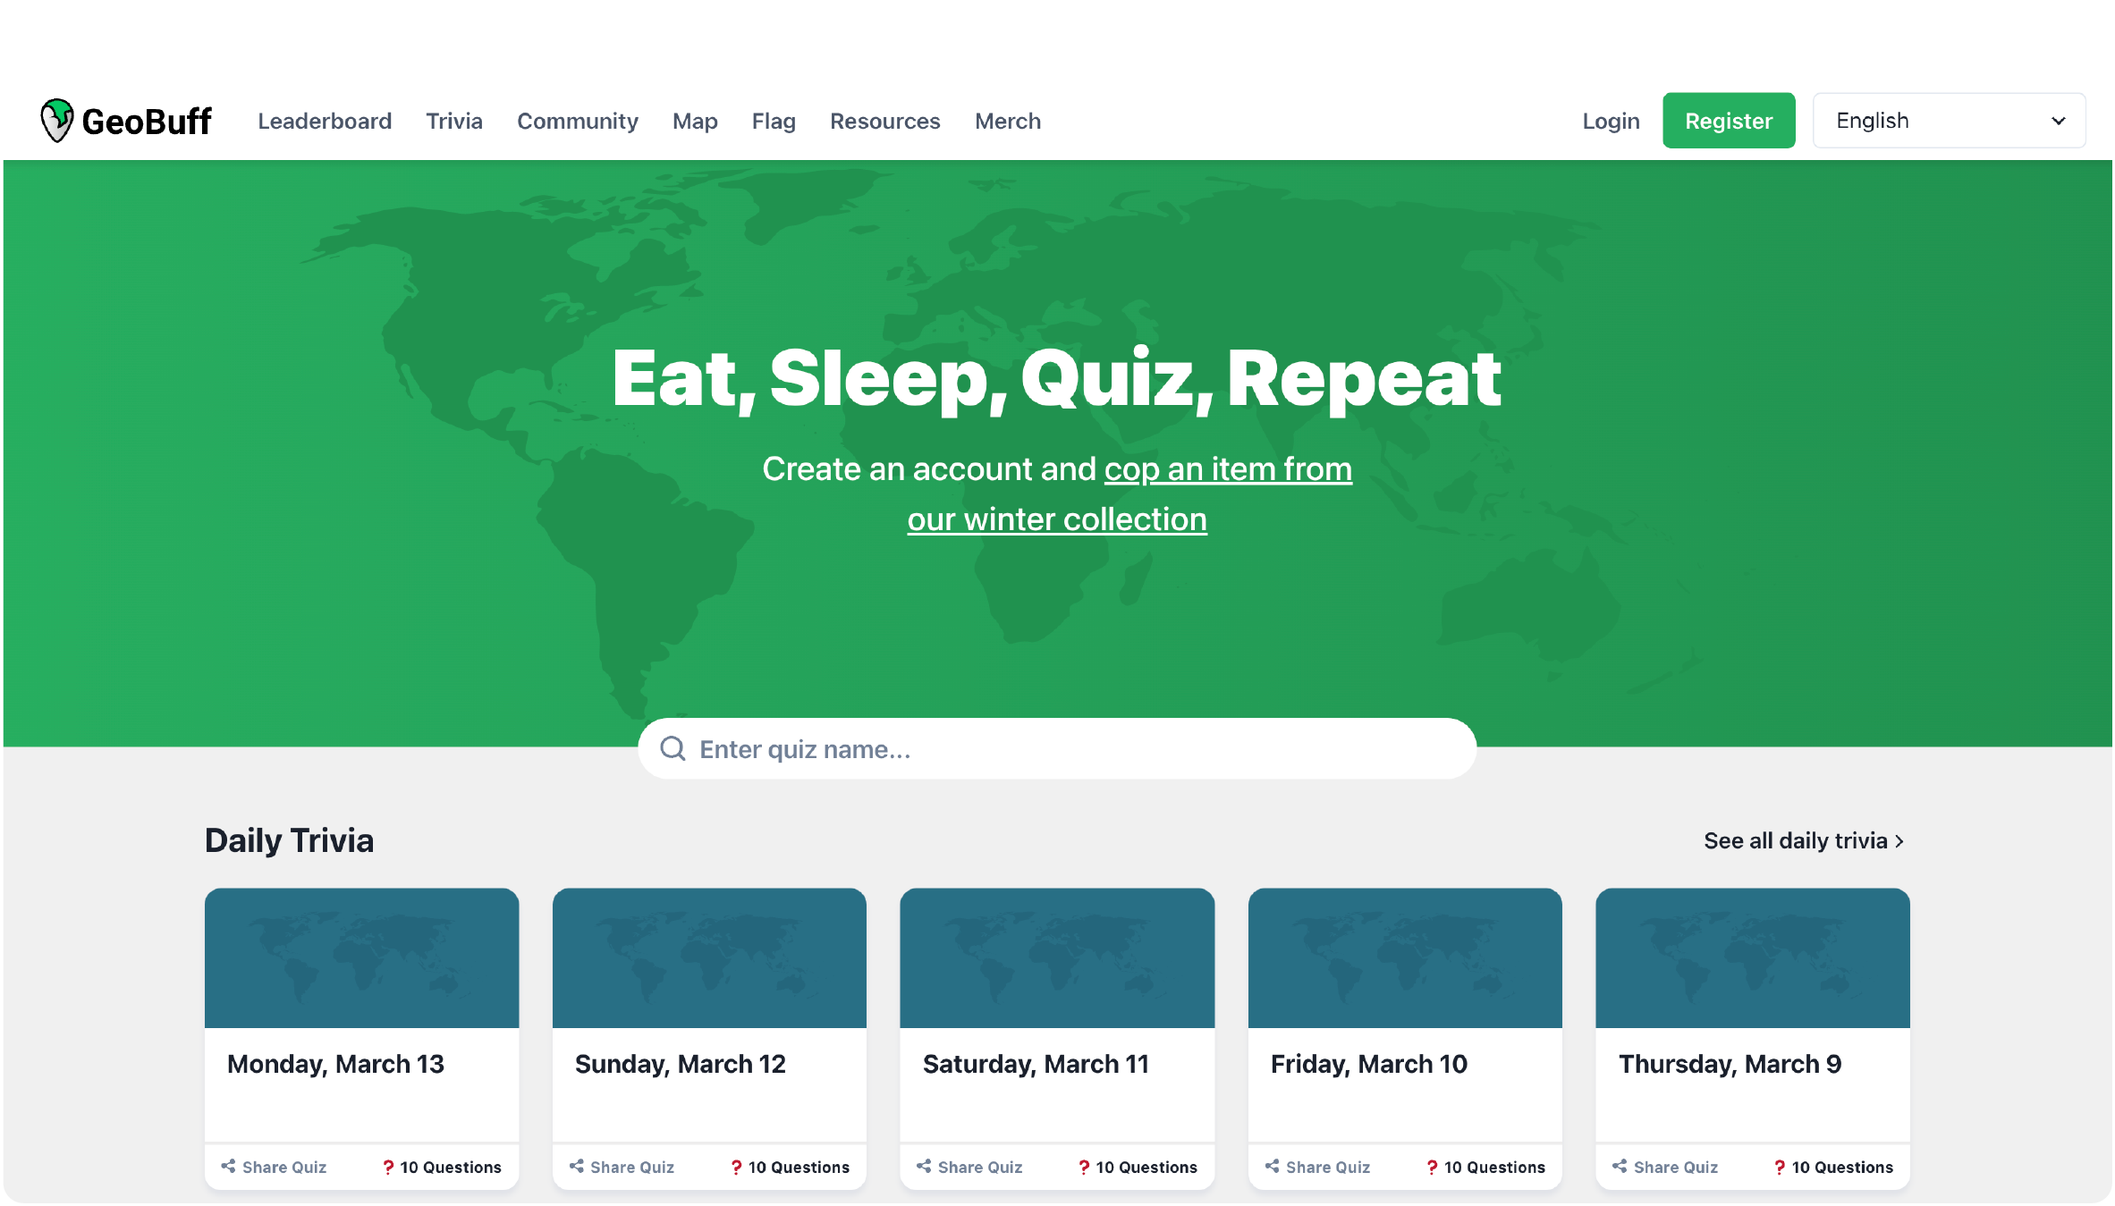
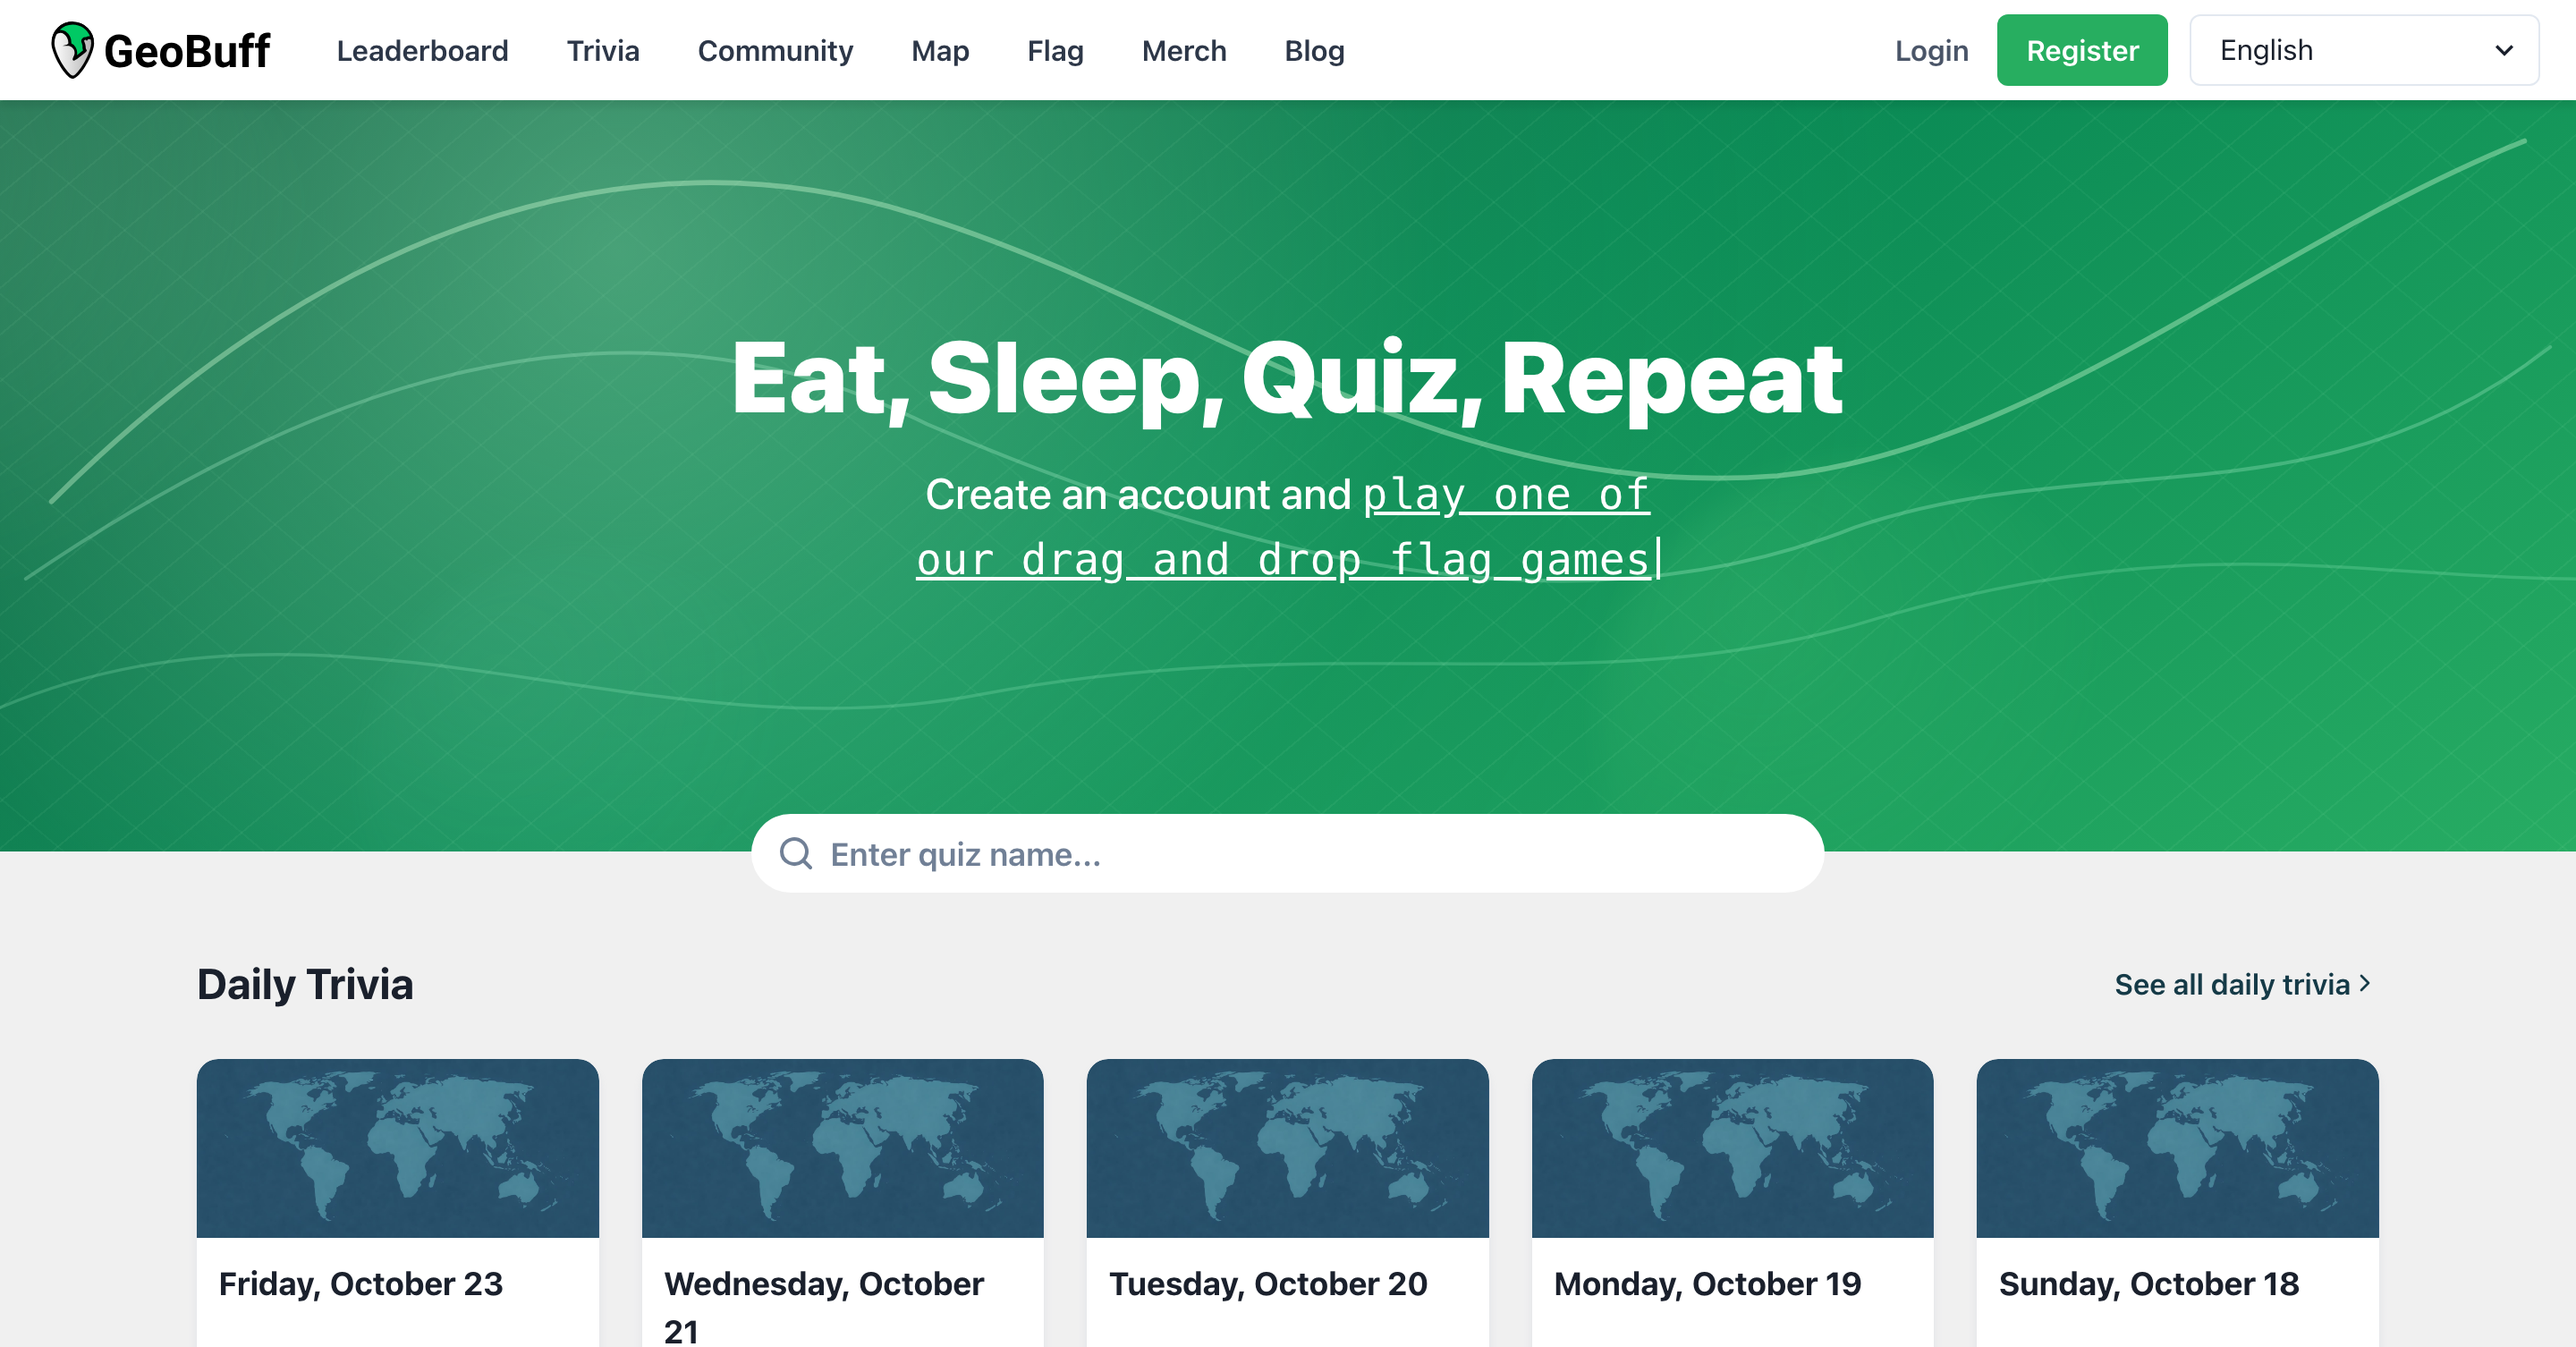
feat: update work

diff --git a/lib/content.ts b/lib/content.ts
@@ -84,7 +84,7 @@ export const projects: Project[] = [
     title: "geobuff.ai",
     subtitle: "Geography Quiz Platform",
     href: "https://geobuff.ai",
-    image: { src: "/images/geobuff.png", alt: "GeoBuff", width: 2365, height: 1349 },
+    image: { src: "/images/geobuff.png", alt: "GeoBuff", width: 2880, height: 1506 },
     summary:
       "Built a multilingual geography quiz product spanning web and mobile, with a strong focus on gameplay quality and scalable content delivery.",
     impact:
@@ -94,7 +94,7 @@ export const projects: Project[] = [
   {
     title: "boookshelf.xyz",
     subtitle: "Bookshelf",
-    href: "https://boookshelf.xyz/shelf/1",
+    href: "https://boookshelf.xyz",
     image: {
       src: "/images/bookshelf.png",
       alt: "Bookshelf",

diff --git a/components/__tests__/SelectedWork.test.tsx b/components/__tests__/SelectedWork.test.tsx
@@ -19,7 +19,7 @@ describe("SelectedWork", () => {
     const visitLinks = screen.getAllByRole("link", { name: /^Visit / });
     expect(visitLinks).toHaveLength(2);
     expect(visitLinks[0]).toHaveAttribute("href", "https://geobuff.ai");
-    expect(visitLinks[1]).toHaveAttribute("href", "https://boookshelf.xyz/shelf/1");
+    expect(visitLinks[1]).toHaveAttribute("href", "https://boookshelf.xyz");
 
     expect(screen.getByText("AWS ECS/RDS/EventBridge")).toBeInTheDocument();
     expect(screen.getByText("ASP.NET Core")).toBeInTheDocument();
